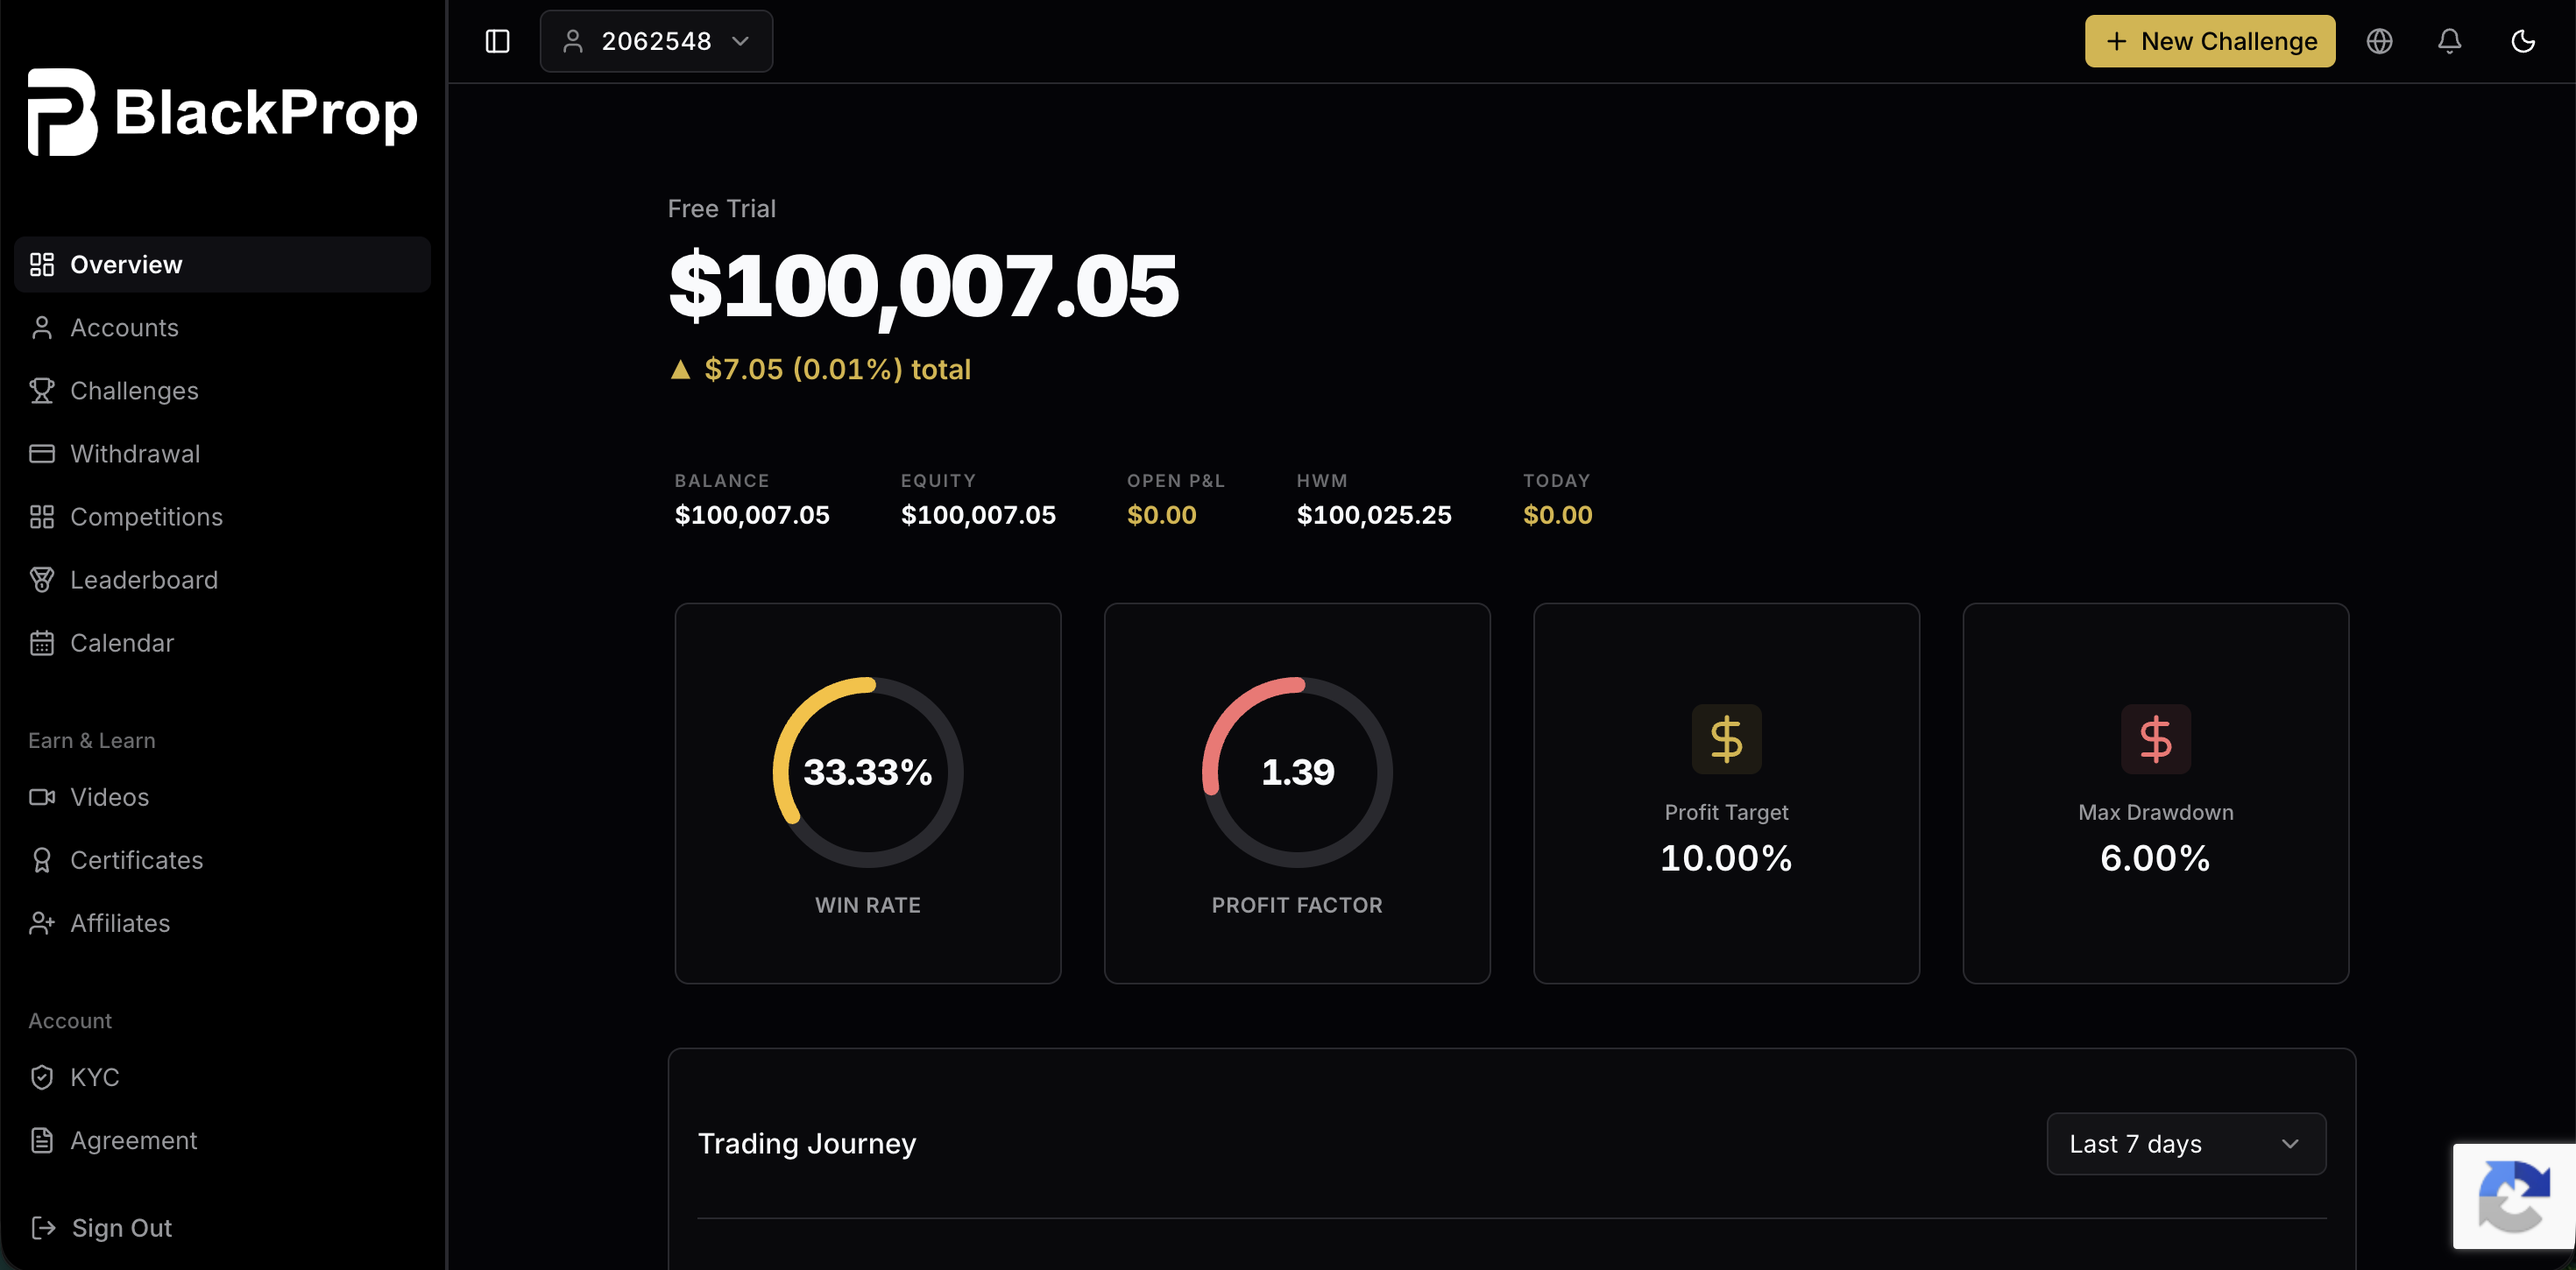
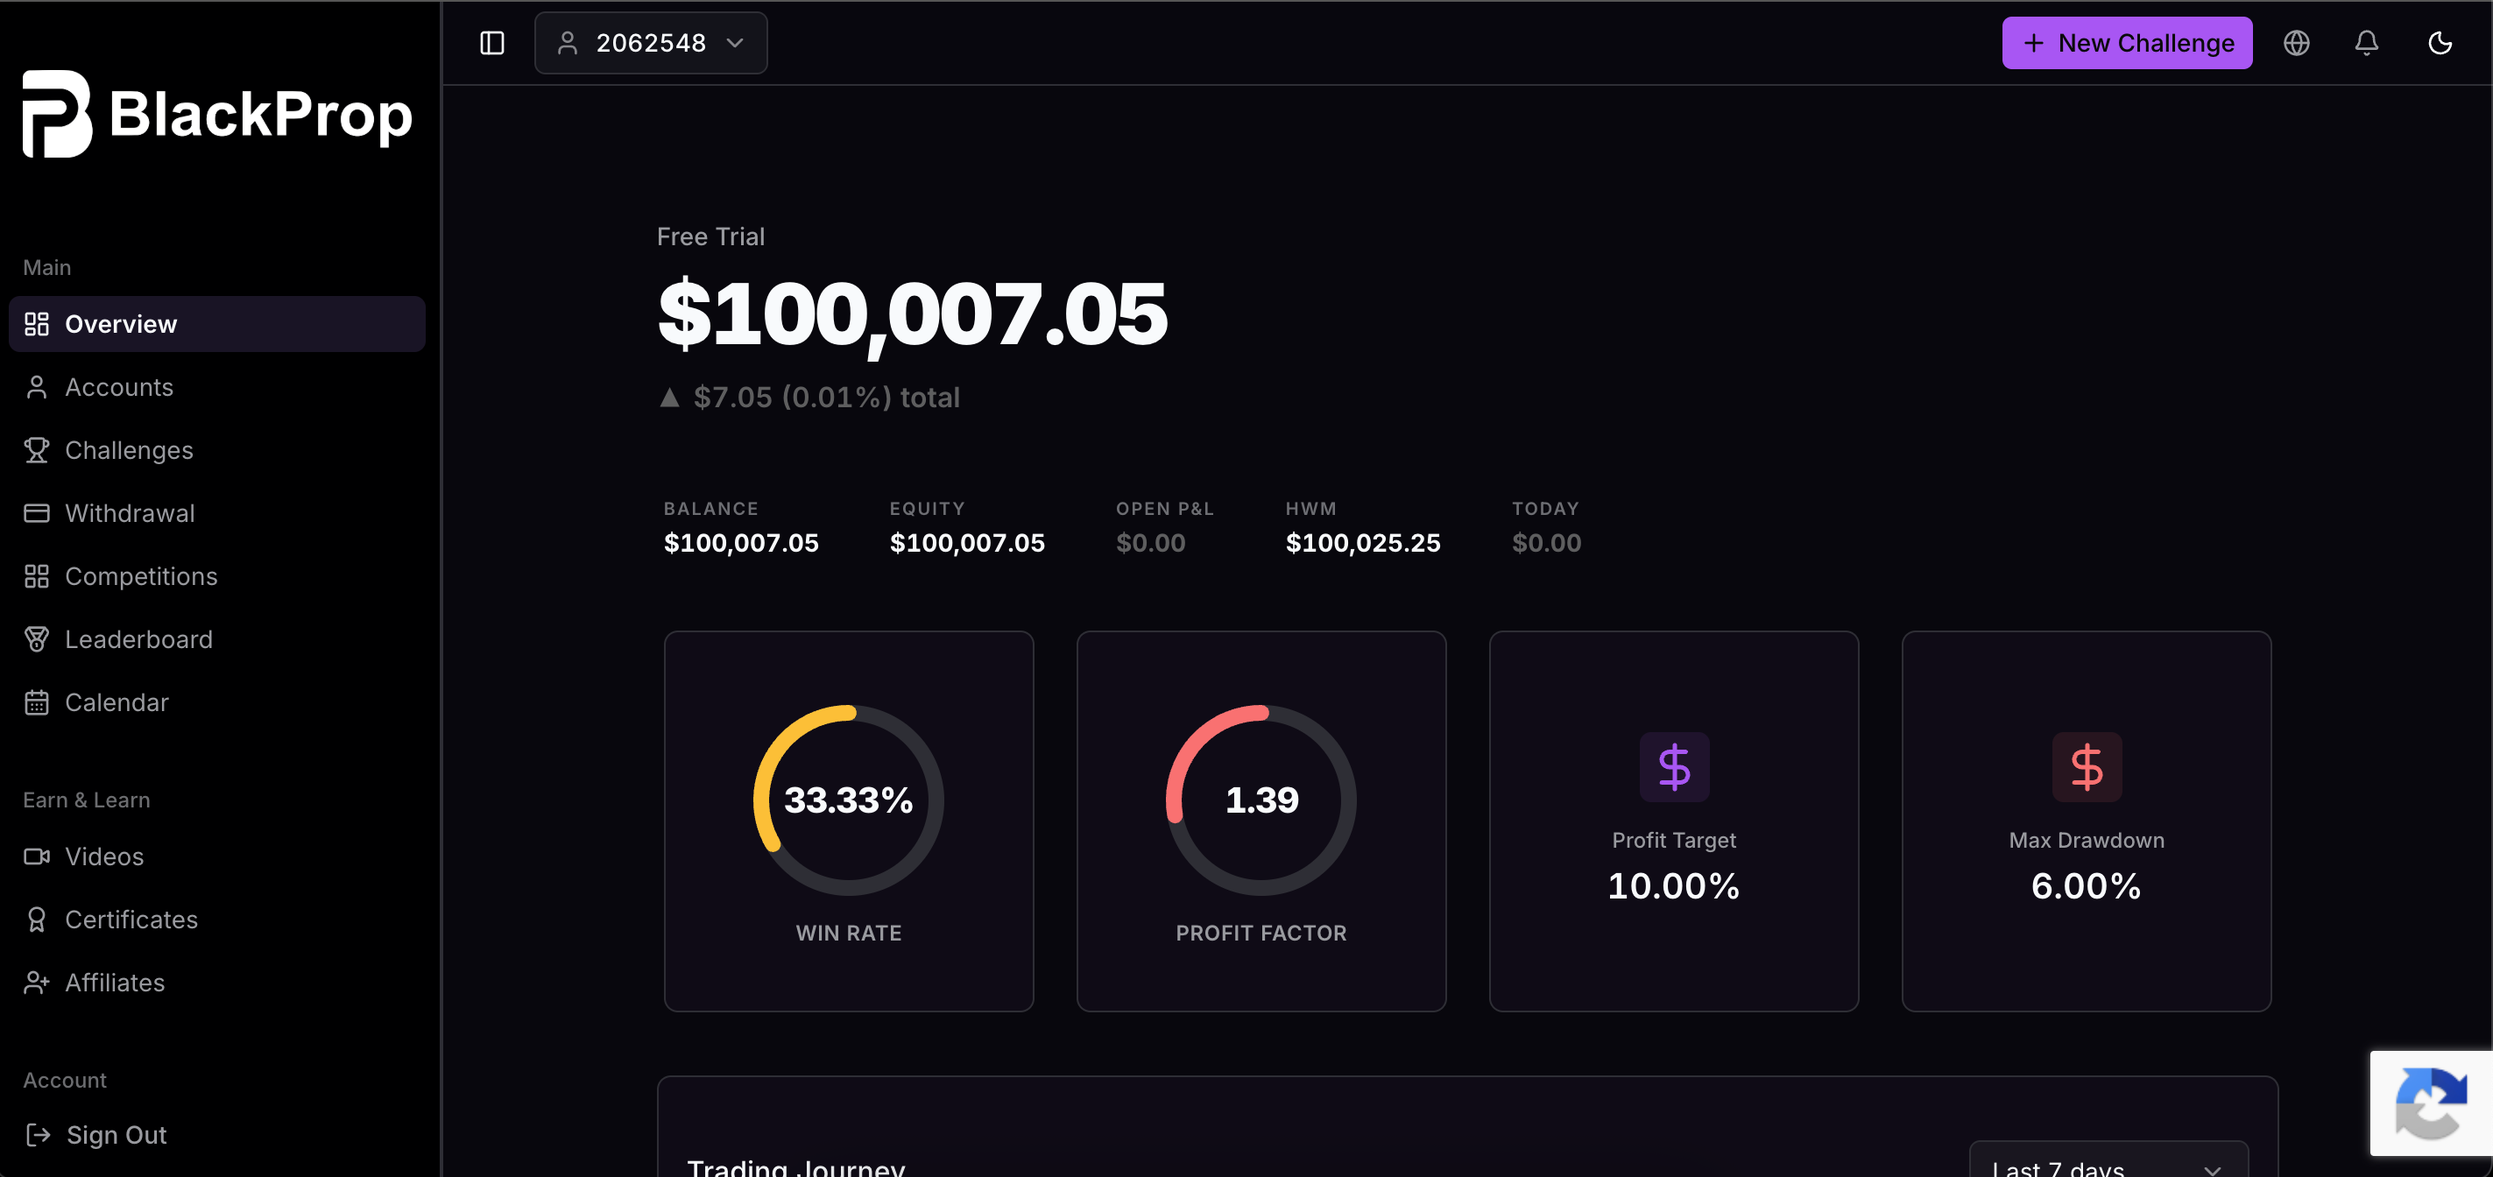
dashboard redesign

diff --git a/src/components/sections/profit-calculator.tsx b/src/components/sections/profit-calculator.tsx
@@ -155,23 +155,21 @@ function CheckIcon() {
 function BrandMark() {
   return (
     <svg
-      viewBox="0 0 88 88"
+      viewBox="0 0 290 366"
       fill="none"
-      className="h-[46px] w-[46px] min-[380px]:h-[52px] min-[380px]:w-[52px] sm:h-[64px] sm:w-[64px] lg:h-[72px] lg:w-[72px]"
+      color="#FFFFFF"
+      className="h-[46px] w-[36px] min-[380px]:h-[52px] min-[380px]:w-[41px] sm:h-[64px] sm:w-[50px] lg:h-[72px] lg:w-[57px]"
+      shapeRendering="geometricPrecision"
+      preserveAspectRatio="xMidYMid meet"
       aria-hidden="true"
     >
       <path
-        d="M24 17h27.5C65.6 17 75 26.4 75 39.3S65.6 61.7 51.5 61.7H37.8V75H24V17Z"
-        stroke="white"
-        strokeWidth="7"
-        strokeLinecap="round"
-        strokeLinejoin="round"
+        fill="currentColor"
+        d="M28 0H196C244 0 278 48 278 105C278 130 271 150 256 172C277 190 289 213 289 241V267C289 319 249 365 195 365H90V237H161C201 237 230 202 230 168V139C230 104 207 78 177 78H0V25C0 11 12 0 28 0Z"
       />
       <path
-        d="M37.8 31h14.6c5.7 0 9.5 3.2 9.5 8.3 0 5.1-3.8 8.4-9.5 8.4H37.8V31Z"
-        stroke="white"
-        strokeWidth="7"
-        strokeLinejoin="round"
+        fill="currentColor"
+        d="M0 129H157C171 129 181 141 181 156C181 171 171 183 157 183H41V365C18 365 0 352 0 335V129Z"
       />
     </svg>
   );
